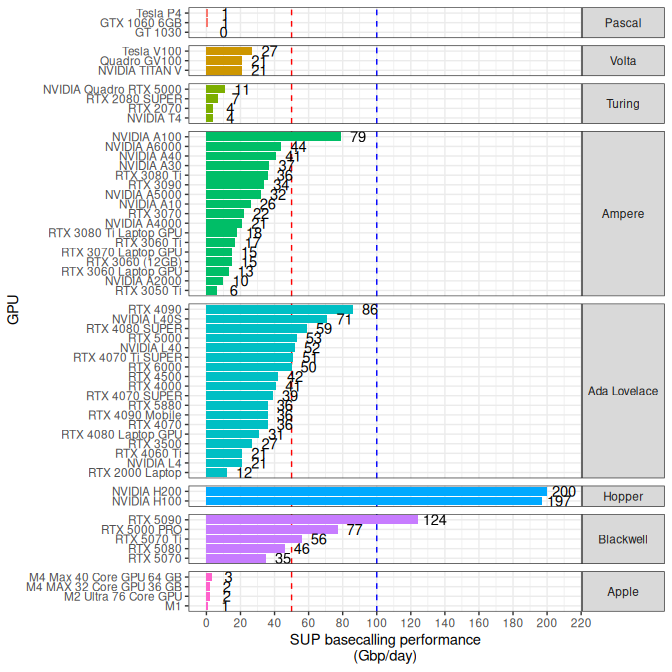
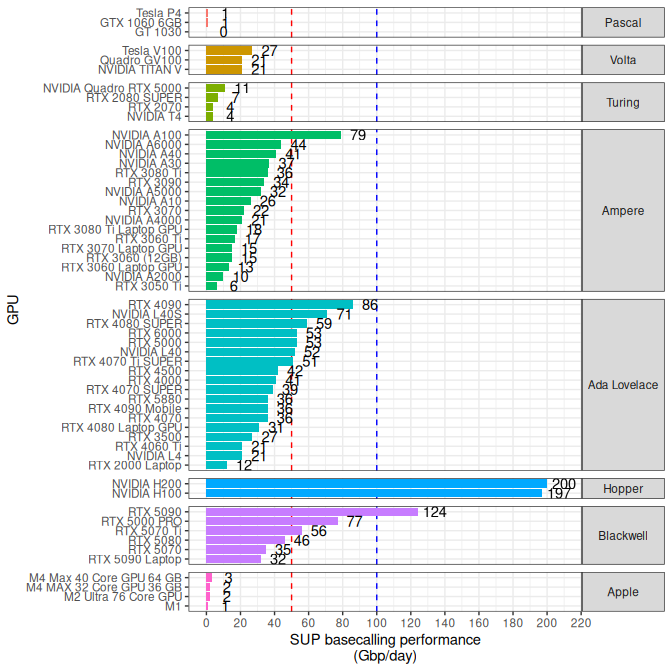
added a few more datapoints

diff --git a/README.md b/README.md
@@ -1,7 +1,7 @@
 README
 ================
 Rasmus Kirkegaard
-17 December, 2025
+10 February, 2026
 
 ## Aim
 